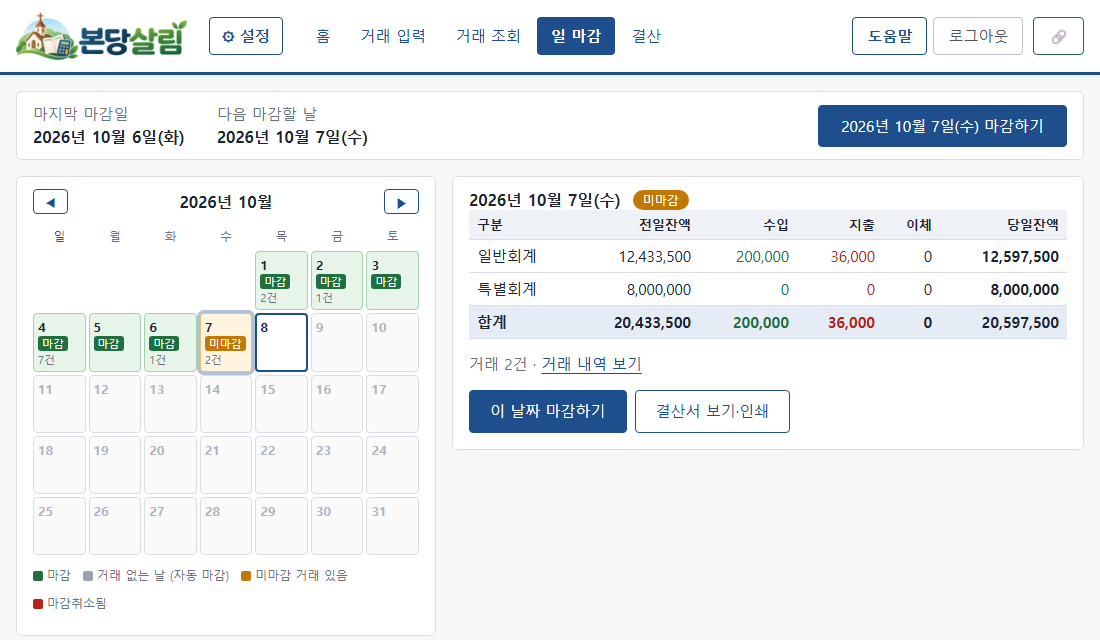
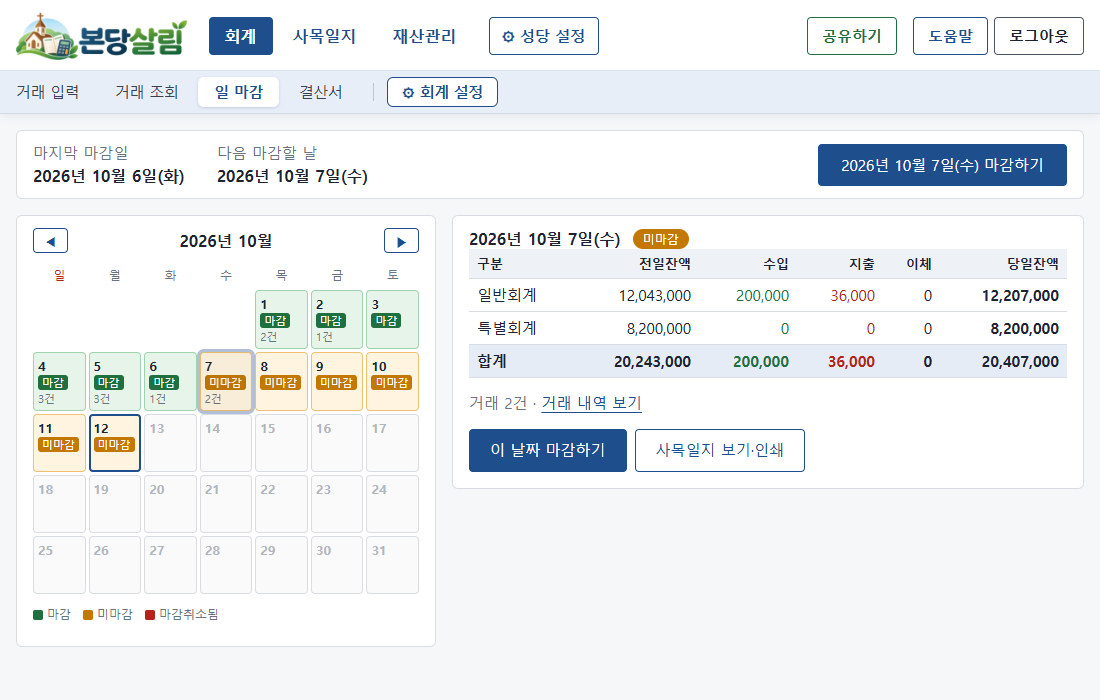
도움말 그림 새로 찍음: 최초 설정 · 거래 입력 · 일 마감 · 결산서 (지금 메뉴 모양으로)

diff --git a/public/help.html b/public/help.html
@@ -56,7 +56,7 @@
       <section id="entry" data-keywords="거래 입력 수입 지출 저장 단축키 F2 F3 F4 Enter 수정 삭제 고치기 지우기 적요 납부자 차감 봉헌권 마이너스 마감">
         <h2><span class="hn">2</span>거래 입력</h2>
         <p>날짜를 고르고 <b>수입 · 지출</b>을 고른 뒤, 통장 → 예산과목 → 금액 → 적요 순서로 넣고 <kbd>Enter</kbd>를 누르면 저장됩니다.</p>
-        <figure><img src="/img/help/entry.png" alt="거래 입력 화면: 날짜, 수입·지출·이체 선택, 통장·과목·금액·적요, 저장" loading="lazy" width="1100" height="545"></figure>
+        <figure><img src="/img/help/entry.png" alt="거래 입력 화면: 위 메뉴(회계 · 사목일지 · 재산관리), 날짜, 수입·지출·이체 선택, 통장·과목·금액·적요, 저장" loading="lazy" width="1100" height="600"></figure>
         <table class="grid help-keys">
           <thead><tr><th>키</th><th>하는 일</th></tr></thead>
           <tbody>
@@ -95,7 +95,7 @@
       <section id="closing" data-keywords="마감 일마감 마감취소 달력 거래 없는 날 하루씩 순서 가결산 자동 마감">
         <h2><span class="hn">4</span>일 마감</h2>
         <p>그날 입력을 다 했으면 <b>[일 마감]</b>에서 그날을 마감합니다. 마감한 날은 잠겨서 실수로 바뀌지 않고, 결산서의 "가결산" 표시가 없어집니다. <b>거래가 없는 날도 하루씩 마감합니다.</b></p>
-        <figure><img src="/img/help/closing.png" alt="일 마감 화면: 달력(초록 마감, 주황 미마감)과 선택한 날의 현황, 마감하기 버튼" loading="lazy" width="1100" height="640"></figure>
+        <figure><img src="/img/help/closing.png" alt="일 마감 화면: 달력(초록 마감, 주황 미마감)과 선택한 날의 현황, 마감하기 버튼" loading="lazy" width="1100" height="700"></figure>
         <ul>
           <li>달력 색: <b class="in">초록</b> 마감 · <b style="color:#c27803">주황</b> 미마감 · <b class="out">빨강</b> 마감취소됨 (예전에 거래 없이 함께 잠긴 날은 <b style="color:#9ca3af">회색</b> "자동 마감"으로 보입니다)</li>
           <li>[이 날짜 마감하기]를 누르면 그날의 잔액과 <b>결산서 작성자</b>가 나옵니다. 확인하고 [마감]을 누릅니다.</li>
@@ -127,7 +127,7 @@
         <p><b>결재란:</b> 결재란 아래 <b>[결재란 고치기]</b>를 누르면 그 자리에서 결재 단계와 직함을 바꿀 수 있습니다(인쇄에는 버튼이 나오지 않음). 월말 · 연말결산 · 예산 대비는 같은 결재란을 씁니다.</p>
         <p><b>날마다 뽑는 것은 사목일지</b>입니다. 그날 회계(회계별 현황 · 수입 · 지출 · 이체 · 보유 현금 · 통장별 잔액)는 사목일지 2쪽에 나옵니다. (예전의 일일결산서는 사목일지 2쪽으로 합쳤습니다)</p>
         <p><b>예산 대비 집행:</b> [⚙ 회계 설정 → 연 예산]에서 과목별 한 해 예산을 넣어 두면, [결산서 → 예산 대비]에서 과목마다 예산액 · 집행액 · 잔액 · 집행률(%)을 보고 인쇄할 수 있습니다. 예산을 넘은 지출 과목은 빨간 글씨로 보입니다. (통장 간 이체는 집행에 넣지 않습니다)</p>
-        <figure><img src="/img/help/report.png" alt="일일 결산서 A4 미리보기: 결재란, 회계별 현황, 수입·지출 내역" loading="lazy" width="1100" height="600"></figure>
+        <figure><img src="/img/help/report.png" alt="결산서 화면: 월말결산 · 연말결산 · 예산 대비 · 통장별 내역 · 개인별 납부 고르기, 월말결산서 A4 미리보기" loading="lazy" width="1100" height="640"></figure>
         <p><b>개인별 납부:</b> 연도를 고르면 특별회계 수입 중 납부자를 적은 것을 사람별로 모아 건수 · 합계를 보여 줍니다. [내역서]를 누르면 그 사람의 납입 날짜 · 헌금 종류 · 금액과 종류별 합계가 A4 한 장으로 나오고, [전체 내역서 보기]는 한 사람에 한 장씩 모두 인쇄합니다. "비슷한 이름"이 보이면 [거래 조회]에서 이름을 고쳐 하나로 맞추세요. 주민등록번호는 넣지 않으니 영수증 양식에 따로 적습니다.</p>
         <p>마감하지 않은 날이 들어 있는 기간은 <b>"가결산"</b>으로 찍힙니다. 거래가 없는 날도 마감해 두세요.</p>
         <p><b>Excel:</b> 결산서 위의 <b>[Excel로 내려받기]</b>을 누르면 보고 있는 결산서의 표를 Excel 파일(.xlsx)로 내려받습니다. 금액은 숫자로 들어가서 Excel 에서 바로 더하거나 정리할 수 있습니다.</p>
